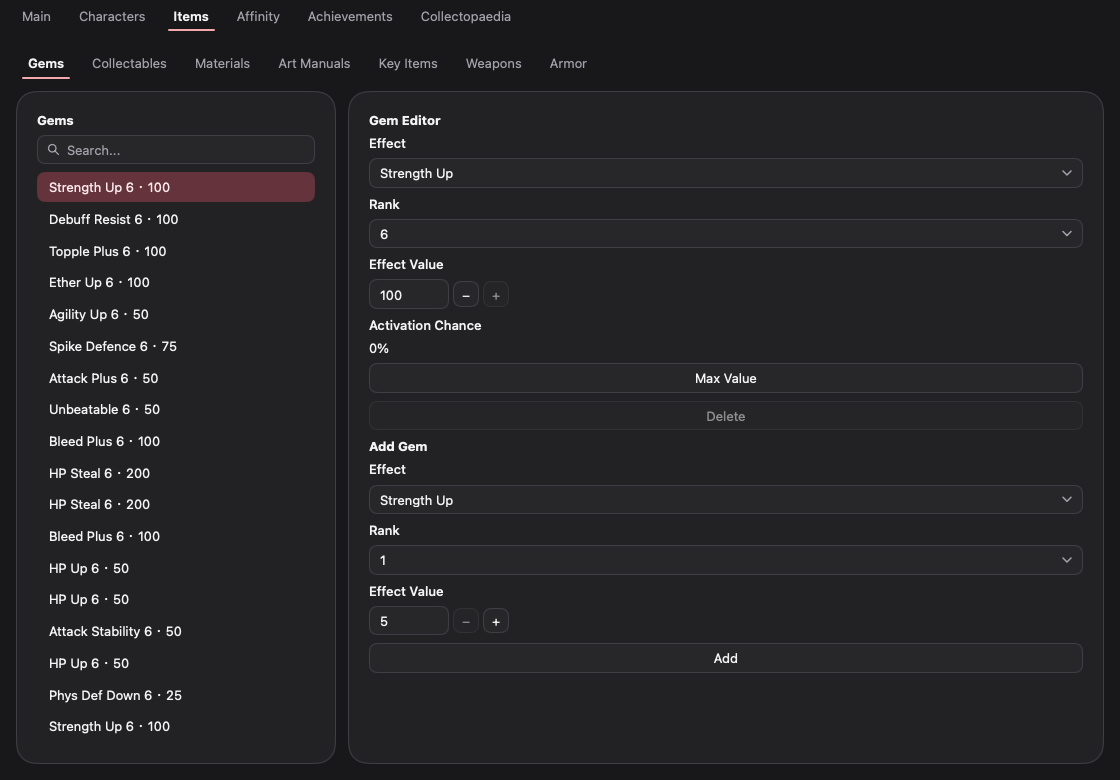
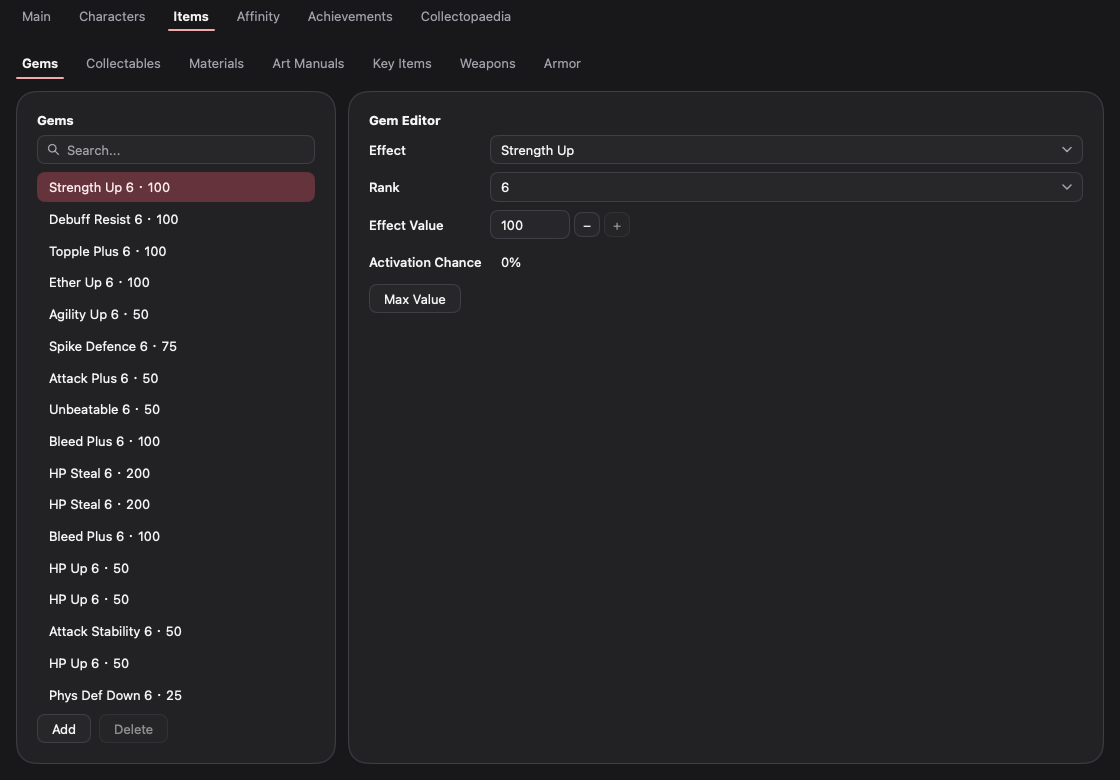
docs: refresh inventory workflow and editor screenshots

diff --git a/README.md b/README.md
@@ -38,6 +38,10 @@ go run ./cmd/xbde-cli inspect /path/to/bfsgame00.sav
 go run ./cmd/xbde-cli copy /path/to/bfsgame00.sav /path/to/copy.sav
 ```
 
+Add and Delete are below each inventory list. Add opens a selection window;
+Fill Missing Equipment selects a character and adds missing gear in the current
+category without equipping it. The right pane edits the selected entry.
+
 Money and Noponstones edits are limited to the native cap of 999,999,999.
 Existing higher amounts are preserved on opening and unrelated edits; they are
 not silently normalized.
